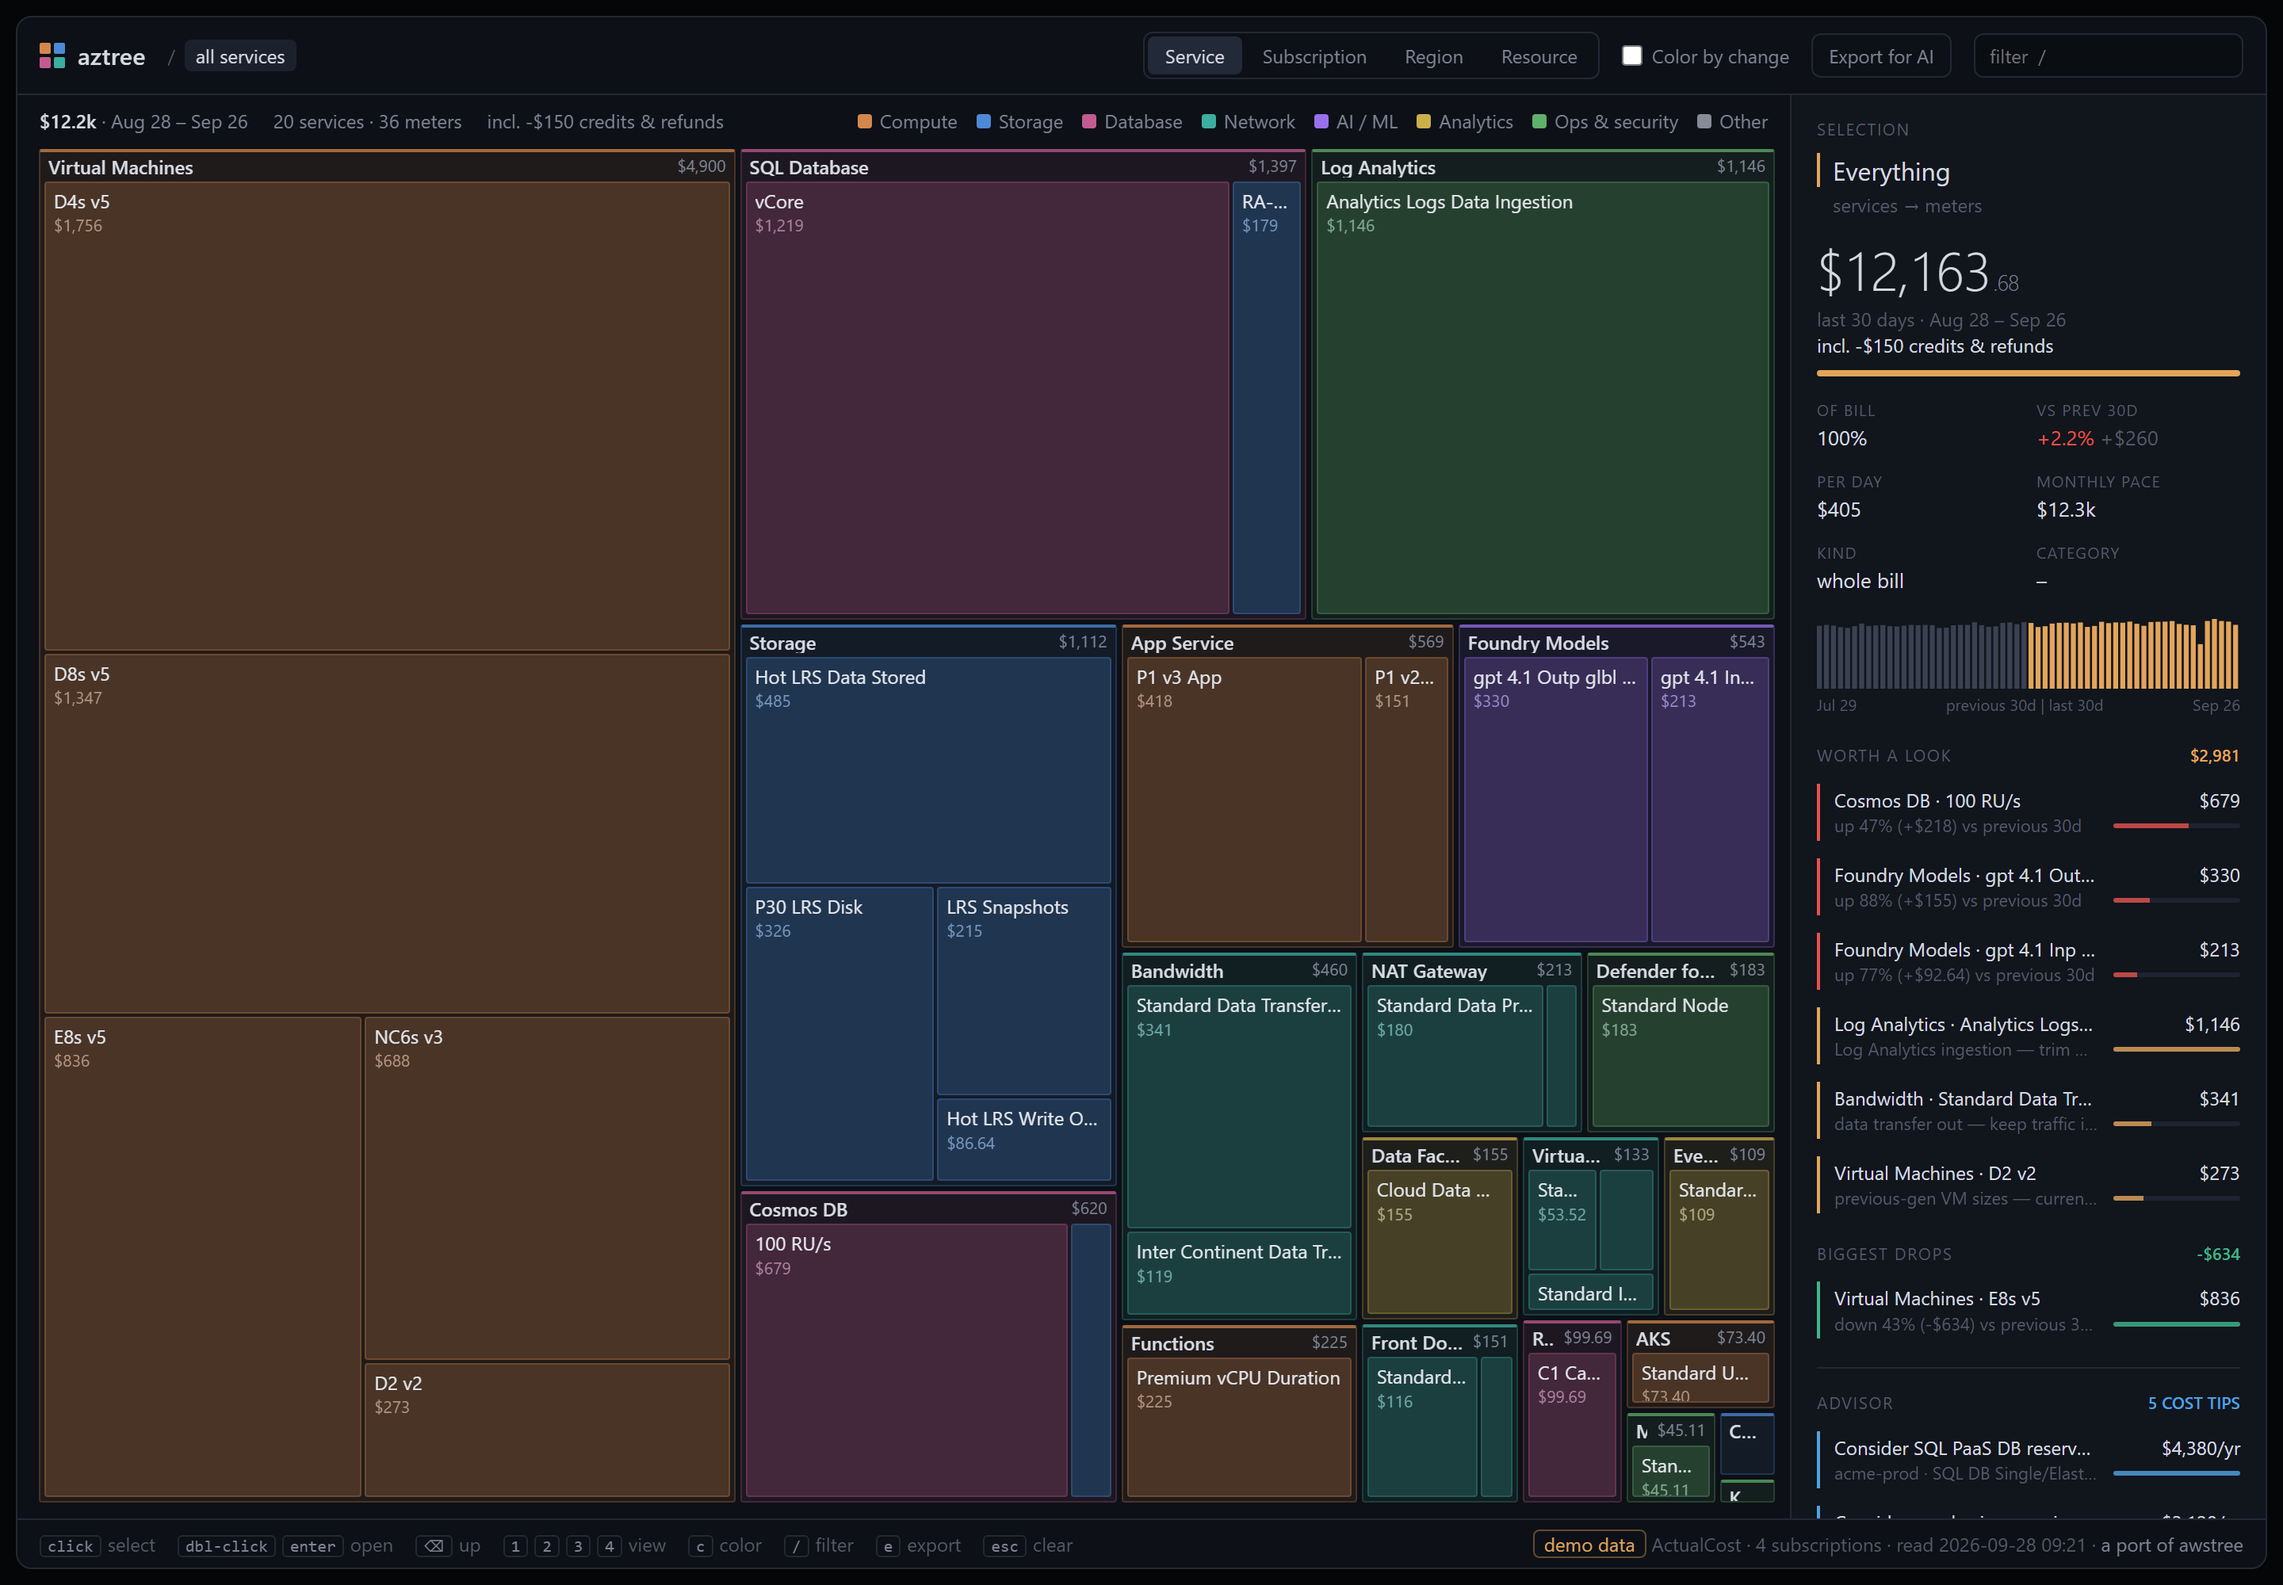
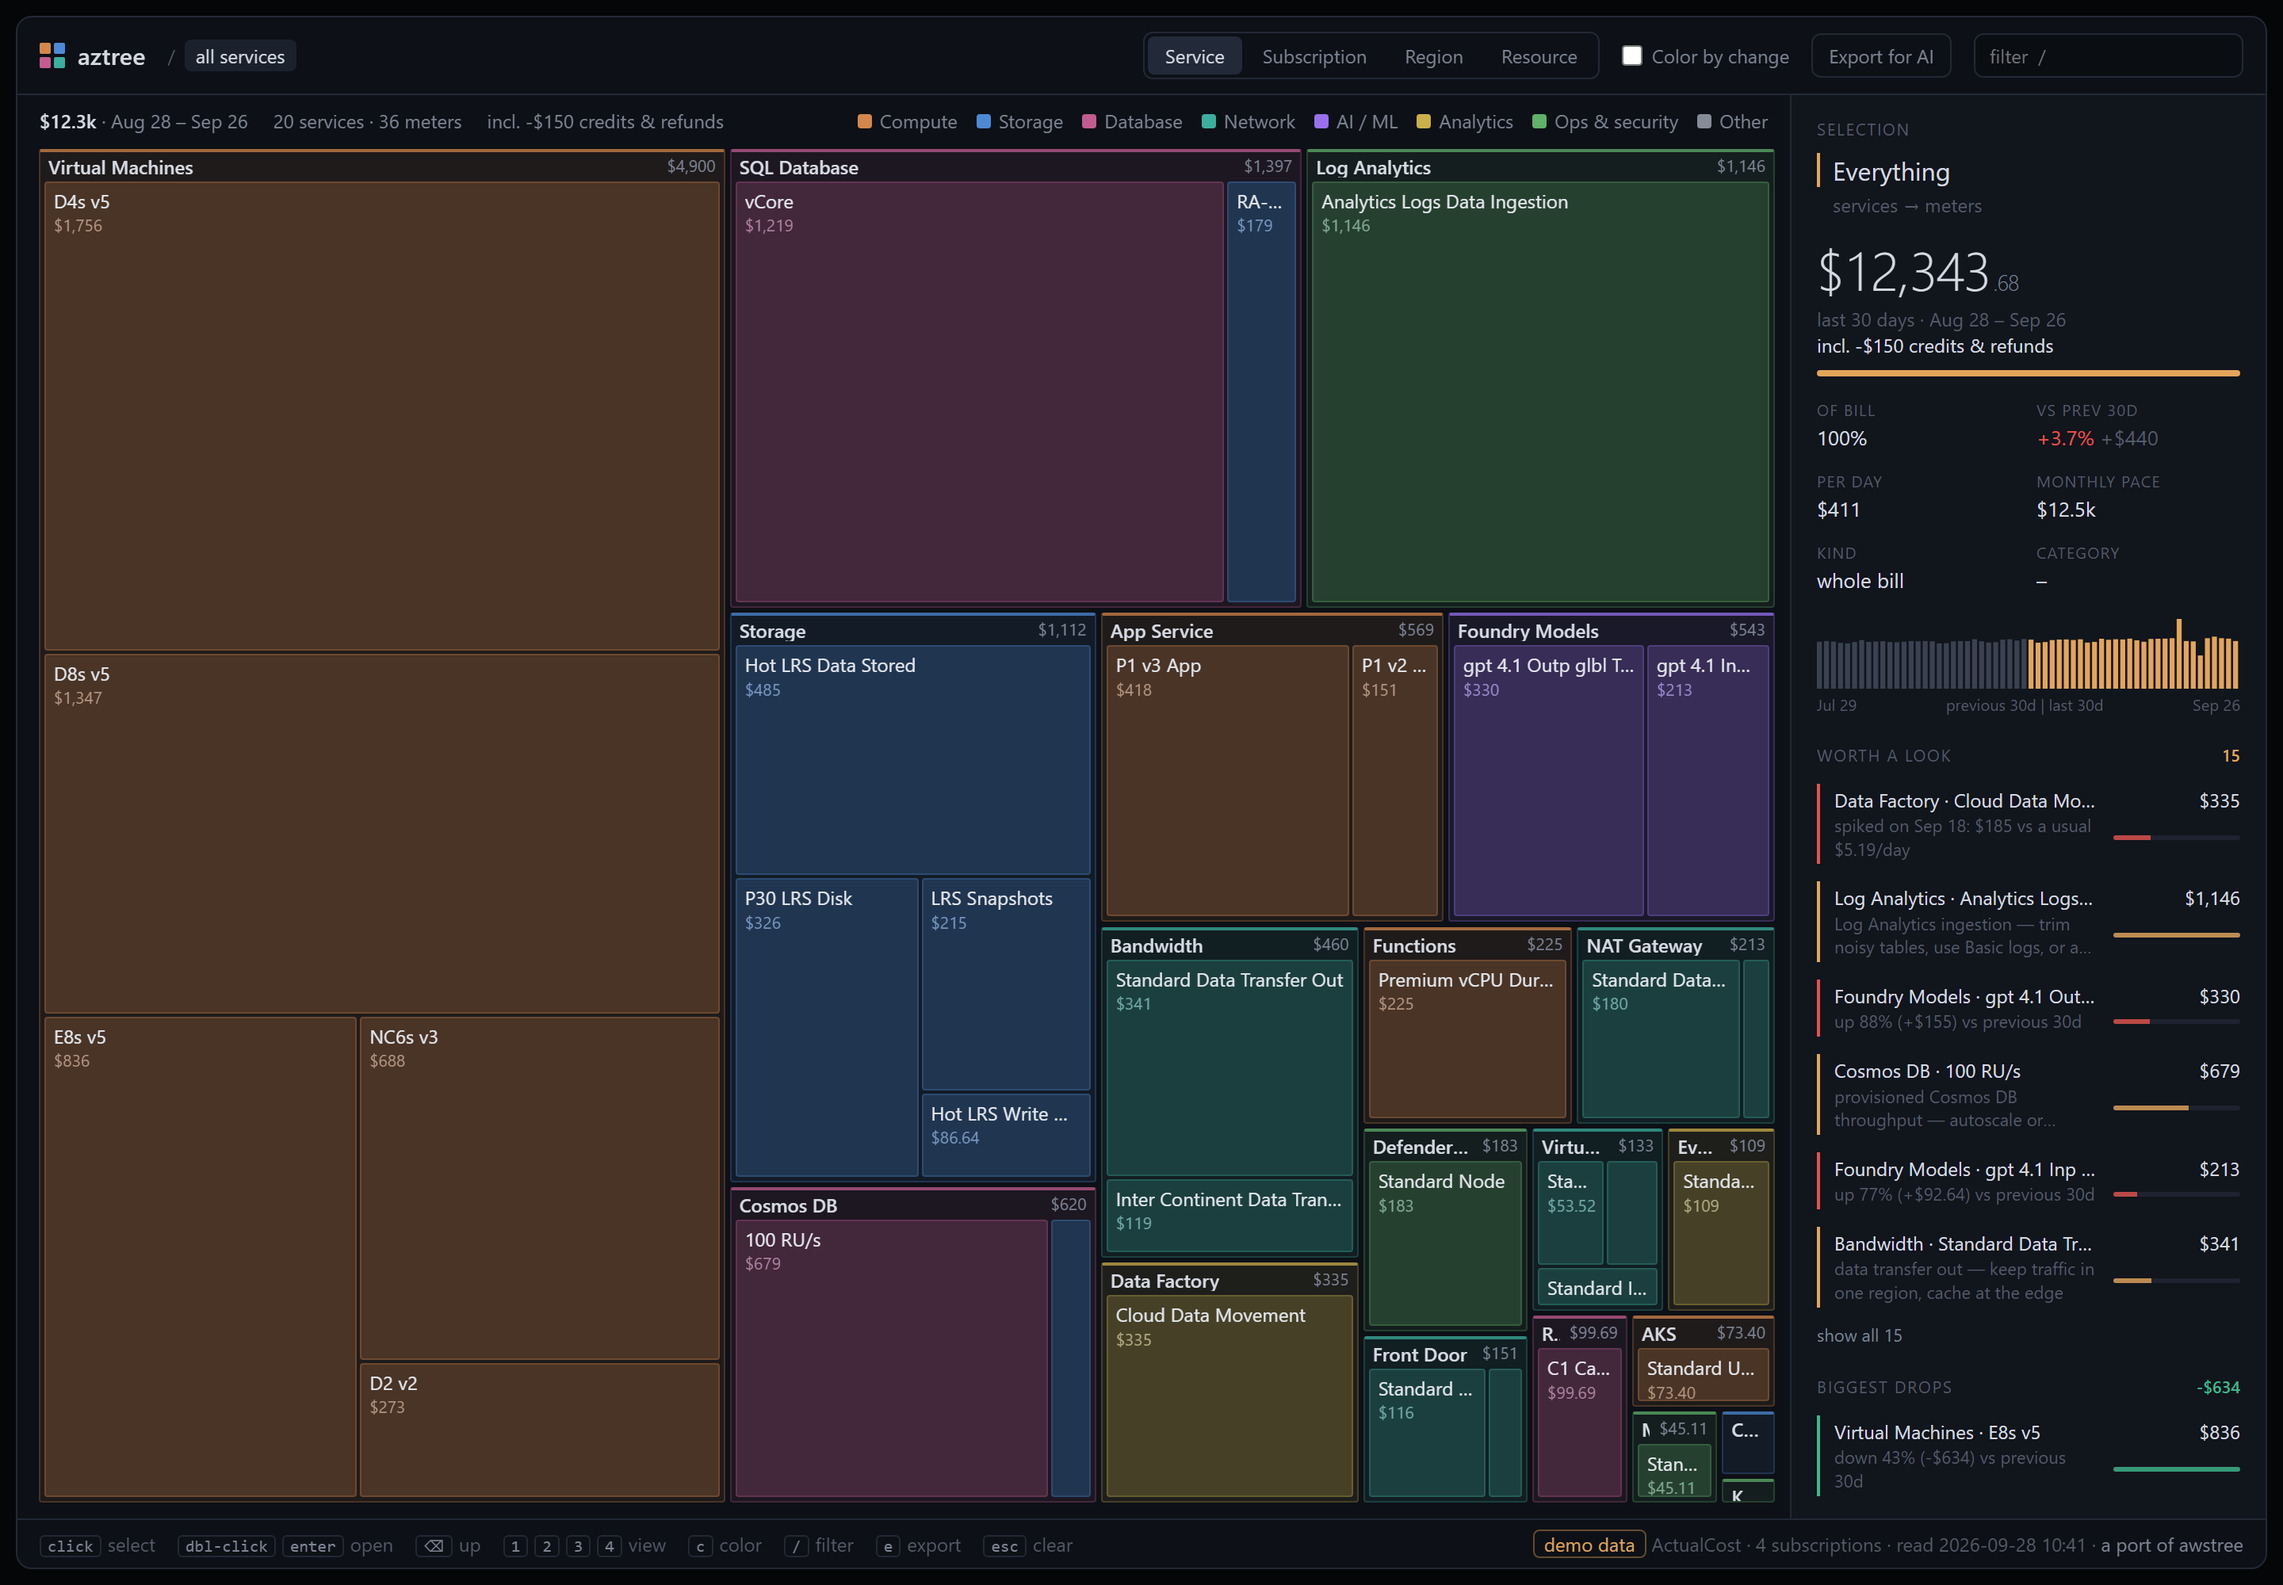
Describe the new hints in the README and the AI export
README: Worth a look is one list where news (growers, spikes) and
to-dos (money pits, always-on dev/test compute, steady spend) take
turns; the money pits it knows are listed; Advisor tips say what they
cover. The AI instructions explain hints and covers. The screenshot
shows the demo's spike.

diff --git a/aztree/__init__.py b/aztree/__init__.py
@@ -629,10 +629,12 @@ AI_INSTRUCTIONS = (
     "(ActualCost books reservation and savings plan purchases on the day they were bought; AmortizedCost spreads them "
     "over the term). `current` is the most recent period and `previous` is the equally long period before it. "
     "Line items are Azure meters grouped by service; `totals.credits_and_refunds` is the part of `current` that comes "
-    "from negative line items (credits, refunds). `flags` are known cost traps matched on meter names. `advisor` holds "
+    "from negative line items (credits, refunds). `flags` are known cost traps matched on meter names. `hints` is the "
+    "list the page shows under Worth a look: news (growers, one-off spikes) taking turns with to-dos (money pits, "
+    "always-on compute in dev/test groups, steady spend worth committing). `advisor` holds "
     "Azure Advisor's cost recommendations, one per kind, resource and SKU, with the largest annual saving Advisor "
     "reported; recommendations that cover the same usage (a reservation and a savings plan, a 1-year and a 3-year term) "
-    "are alternatives, not additive. "
+    "are alternatives, not additive. A tip's `covers` lists the meters its reservation or savings plan would cover. "
     "Please: 1) explain what drives the cost, 2) explain notable changes vs the previous period, "
     "3) suggest concrete savings, each with an estimated monthly saving and how to verify it. "
     "Levers to consider: reservations and savings plans for steady compute and databases; Azure Hybrid Benefit for "

diff --git a/README.md b/README.md
@@ -25,9 +25,10 @@ The page opens in your browser. It shows the last 30 days, compared with the 30 
 - **Treemap** of spend by service → meter. Press `2` to group by subscription, `3` by region and `4` by resource group → resource.
 - **Color by change** (`c`): red where spend grew, green where it shrank.
 - **Selection panel:** cost, share of the bill, change vs the previous period, monthly pace and a daily chart.
-- **Worth a look:** the fastest-growing costs, plus known Azure money pits (Log Analytics ingestion, data transfer out, NAT and Firewall data processing, Basic and static public IPs, disk snapshots, previous-generation VM sizes, Premium v2 App Service plans and Extended Security Updates).
+- **Worth a look:** one list where news and to-dos take turns. News is costs that grew and one-off spikes (a day far above that meter's usual). To-dos are known money pits, compute left on all week in dev/test resource groups, and, when Advisor isn't available, steady spend a reservation could cut. The first six show; "show all" opens the rest.
+- **Money pits it knows:** Log Analytics ingestion, data transfer out, NAT and Firewall processing, public IPs, snapshots, retiring VM series with their retirement dates, Standard and Premium v2 App Service plans, several Front Door profiles, Front Door Premium, large DTU databases, Azure DevOps seats and hosted jobs, private endpoints, provisioned Cosmos DB throughput, 1-minute alert rules, Azure Cache for Redis (retiring) and Extended Security Updates.
 - **Biggest drops:** what fell since the previous period, including anything that went to zero, so you can see a saving land.
-- **Advisor:** Azure Advisor's cost recommendations (reservations, savings plans, right-sizing), one per resource and SKU. Click one to jump to the resource or subscription it's about.
+- **Advisor:** Azure Advisor's cost recommendations (reservations, savings plans, right-sizing), one per resource and SKU. Reservation and savings-plan tips list the meters they would cover and what those run at a month. Click a tip to jump to its biggest meter, or to the resource it's about.
 - **Export for AI:** a JSON summary to hand to any AI agent (see below).
 
 Click to select, double-click to zoom in, `⌫` to go back up, `/` to filter. Add `#resource`, `#subscription` or `#region` to the page's URL to open that view.
